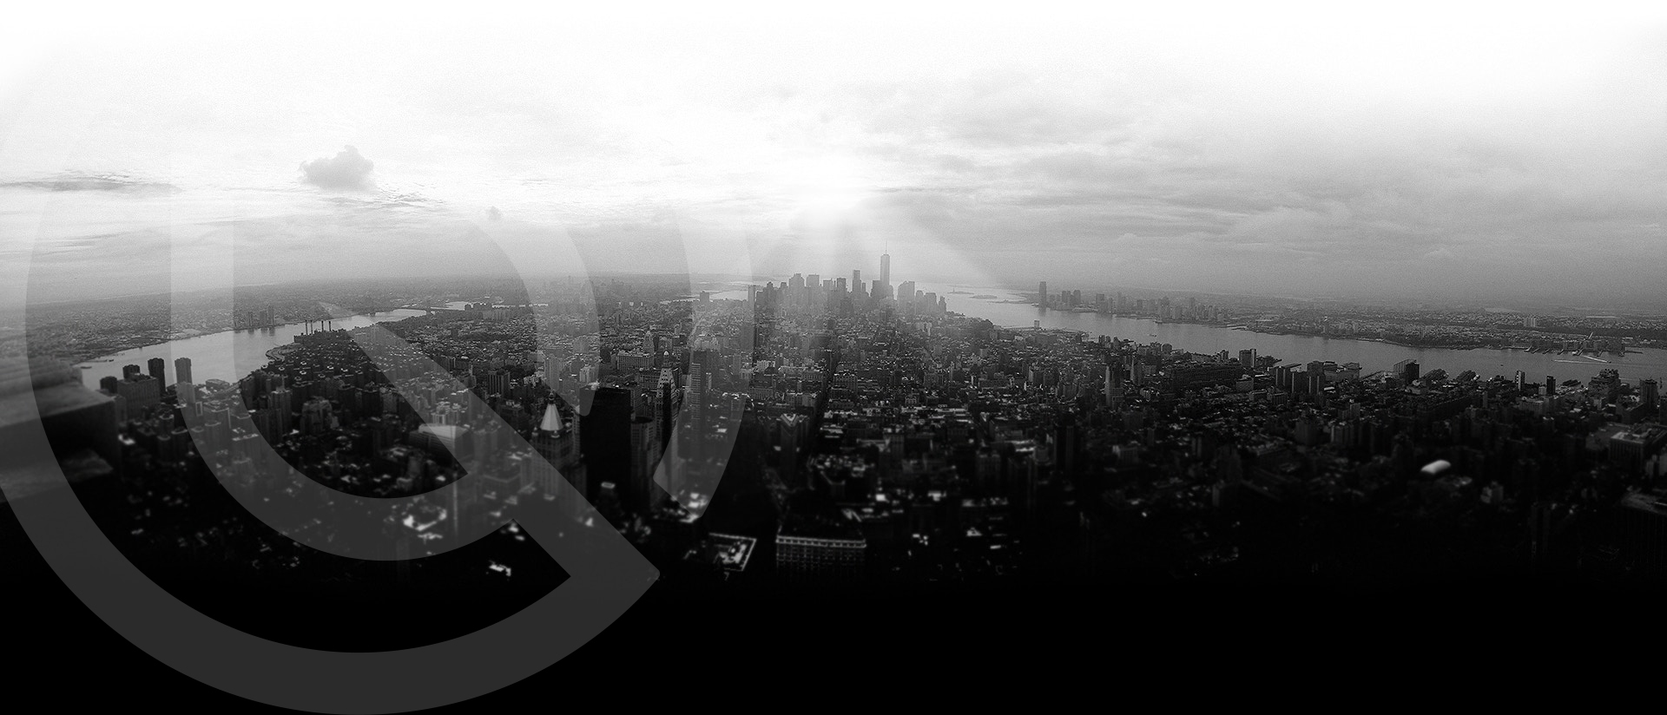
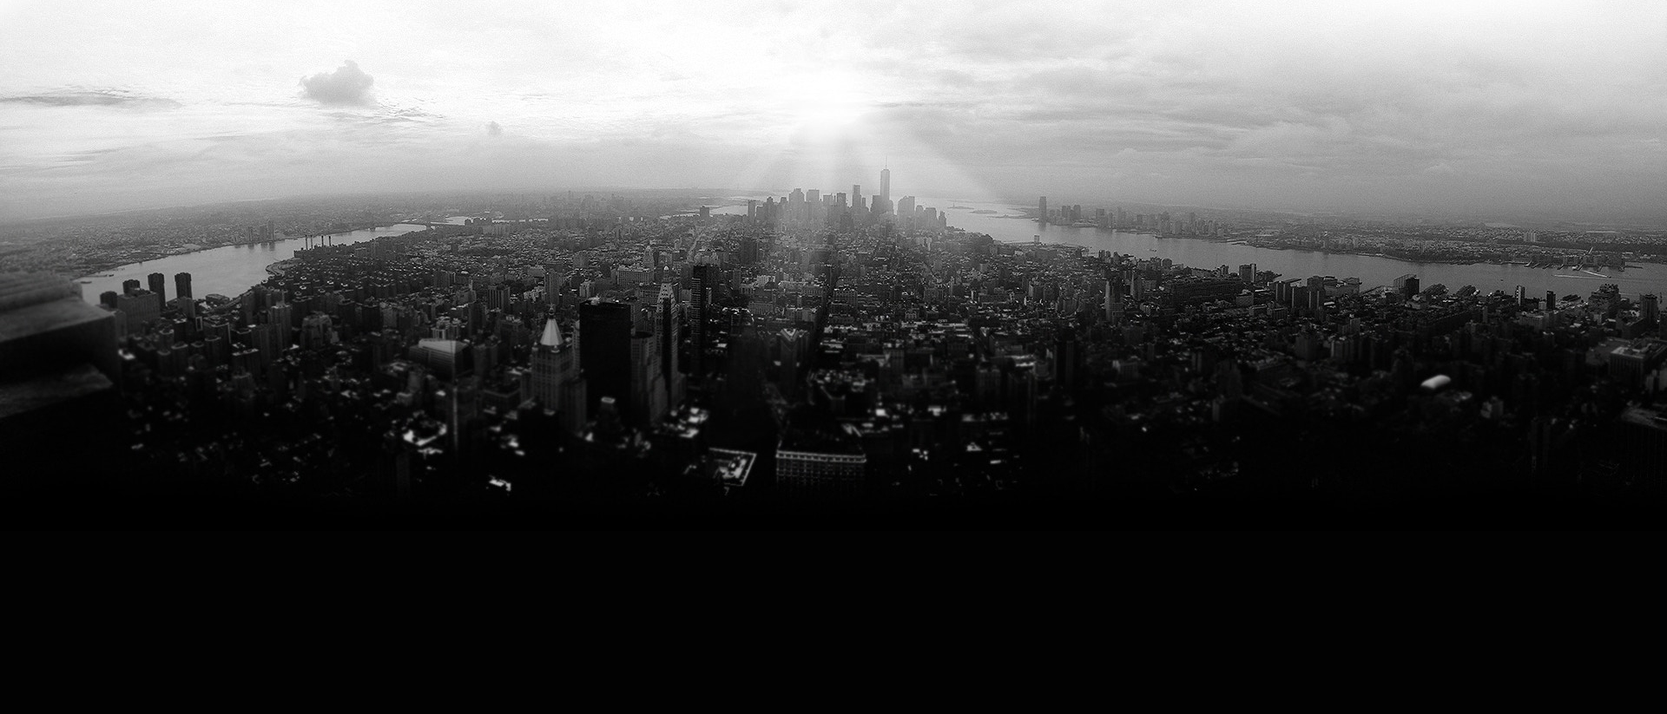
staging 2

diff --git a/index.html b/index.html
@@ -1,14 +1,14 @@
-<!DOCTYPE HTML><html lang="fr" class="no-js" xmlns="http://www.w3.org/1999/xhtml" prefix="og: http://opengraphprotocol.org/schema/
-			fb: https://www.facebook.com/2008/fbml"><!-- The site's metadata tags, importing css styles,... --><head><meta charset="UTF-8"><meta http-equiv="X-UA-Compatible" content="IE=edge"><meta name="viewport" content="width=device-width,initial-scale=1"><meta name="generator" content="Jekyll v3.6.2"><meta name="author" content="Digimix"><title>Gotham Green Partners</title><meta name="description" content="Jekicker is a Jekyll based advanced boilerplace where you find best practices to build a production ready static website. These best practicies include : use of sass, use of node modules instead of copying used librairies content manually, minification, uglification, separating application's code from vendor's code, reduing the number of served files, use of gulp tasks,.. (TODO)
+<!doctype html><html lang="en" class="no-js" xmlns="http://www.w3.org/1999/xhtml" prefix="og: http://opengraphprotocol.org/schema/
+			fb: https://www.facebook.com/2008/fbml"><!-- The site's metadata tags, importing css styles,... --><head><meta charset="UTF-8"><meta http-equiv="X-UA-Compatible" content="IE=edge"><meta name="viewport" content="width=device-width,initial-scale=1"><meta name="generator" content="Jekyll v3.6.2"><meta name="author" content="Digimix"><title>Gotham Green Partners</title><meta name="description" content="Gotham Green Partners is a New York-based private equity firm focused on deploying capital into cannabis and cannabis-related enterprises on a global scale.  The firm manages a diversified portfolio of investments and is actively investing across the cannabis value chain.
 "><meta name="keywords" lang="fr" content="jekyll, static website, generator, sass, yarn, node modules, gulp tasks, production ready, github, open source, advanced boilerplate, jekicker, jekyll starter kit, blogs, posts, pages
-"><!-- Favivons --><link rel="icon" sizes="32x32" href="https://jekicker.github.io/assets/favicon-32-bc62d0cd07323c266bfbca1cc95a0ca03973fd3e6522d06294a6e9df83954e2a.png" type="image/png"><link rel="icon" sizes="64x64" href="https://jekicker.github.io/assets/favicon-64-9d66417fb9b3668583b209aa5a75d11df5557b6af13ef44f064dee98d3a49535.png" type="image/png"><link rel="icon" sizes="96x96" href="https://jekicker.github.io/assets/favicon-96-c6ccfcf2f5f2e60fbb4b93f6860c1468695228fcddbb1ae8016e9e589426c4cb.png" type="image/png"><link rel="icon" sizes="144x144" href="https://jekicker.github.io/assets/favicon-144-2614b9b4b8596841013e8f3d2055a2967b4e4ddd2a564bd0cde3a65cdd9ca45b.png" type="image/png"><link rel="icon" sizes="196x196" href="https://jekicker.github.io/assets/favicon-196-df53507a2d8c392d9ba54321531b299d6d76e3c3b15780232846033aef622b9b.png" type="image/png"><link rel="apple-touch-icon" sizes="192x192" href="https://jekicker.github.io/assets/apple-icon-a440333e0539d639ac996fde6be3b5aee51595b38a86648a5d598d9f8c7d82c5.png"><link rel="apple-touch-icon" sizes="60x60" href="https://jekicker.github.io/assets/apple-icon-60x60-eccb52b0418bf96dd57b47e46062b335916c1880315a50cda7d206af932c2d70.png"><link rel="apple-touch-icon" sizes="76x76" href="https://jekicker.github.io/assets/apple-icon-76x76-22c222b01d43a41667f450904b7676eb022f4825049c913a432404e9609f69a2.png"><link rel="apple-touch-icon" sizes="114x114" href="https://jekicker.github.io/assets/apple-icon-114x114-dd7ff8a455fa17765ff2c5502e07db2a01ce1c1953152b3729f3bca542bb0047.png"><link rel="apple-touch-icon" sizes="120x120" href="https://jekicker.github.io/assets/apple-icon-120x120-6ca18d2cad239f84430a43ad5544ef676a8a8451bbf76d03209fbf918bf6da70.png"><link rel="apple-touch-icon" sizes="144x144" href="https://jekicker.github.io/assets/apple-icon-144x144-661a27d42e201797f9e71013129fceb848ca6aa14dd930df28be9a8f97fd66c4.png"><meta name="msapplication-TileImage" content="https://jekicker.github.io/assets/favicon-144-2614b9b4b8596841013e8f3d2055a2967b4e4ddd2a564bd0cde3a65cdd9ca45b.png"><meta name="msapplication-TileColor" content="#FFFFFF"><link rel="icon" href="https://jekicker.github.io/assets/favicon-243a3cfeac1081a588a5c195b68a08316ff105e2fa67274c0aa7c065fca1d2e8.png" type="image/png"><link rel="shortcut icon" href="https://jekicker.github.io/favicon.ico" type="image/x-icon"><!-- Chrome, Firefox OS and Opera --><meta name="theme-color" content="#ef473a"><!-- Windows Phone --><meta name="msapplication-navbutton-color" content="#ef473a"><!-- iOS Safari --><meta name="apple-mobile-web-app-status-bar-style" content="#ef473a"><!-- Twitter summary card metadata --><meta property="twitter:card" content="summary"><meta property="twitter:site" content="@"><meta property="twitter:title" content="Gotham Green Partners"><meta property="twitter:description" content="Jekicker is a Jekyll based advanced boilerplace where you find best practices to build a production ready static website. These best practicies include : use of sass, use of node modules instead of copying used librairies content manually, minification, uglification, separating application's code from vendor's code, reduing the number of served files, use of gulp tasks,.. (TODO)
-"><meta property="twitter:image" content="TODO"><meta property="twitter:url" content="https://jekicker.github.io"><!-- Facebook, Pinterest, Google Plus and others make use of open graph metadata --><meta property="og:url" content="https://jekicker.github.io"><meta property="og:site_name" content="TODO Jekicker"><meta property="og:type" content="website"><meta property="og:title" content="Gotham Green Partners"><meta property="og:description" content="Jekicker is a Jekyll based advanced boilerplace where you find best practices to build a production ready static website. These best practicies include : use of sass, use of node modules instead of copying used librairies content manually, minification, uglification, separating application's code from vendor's code, reduing the number of served files, use of gulp tasks,.. (TODO)
+"><!-- Favivons --><link rel="icon" sizes="32x32" href="https://jekicker.github.io/assets/favicon-32-bc62d0cd07323c266bfbca1cc95a0ca03973fd3e6522d06294a6e9df83954e2a.png" type="image/png"><link rel="icon" sizes="64x64" href="https://jekicker.github.io/assets/favicon-64-9d66417fb9b3668583b209aa5a75d11df5557b6af13ef44f064dee98d3a49535.png" type="image/png"><link rel="icon" sizes="96x96" href="https://jekicker.github.io/assets/favicon-96-c6ccfcf2f5f2e60fbb4b93f6860c1468695228fcddbb1ae8016e9e589426c4cb.png" type="image/png"><link rel="icon" sizes="144x144" href="https://jekicker.github.io/assets/favicon-144-2614b9b4b8596841013e8f3d2055a2967b4e4ddd2a564bd0cde3a65cdd9ca45b.png" type="image/png"><link rel="icon" sizes="196x196" href="https://jekicker.github.io/assets/favicon-196-df53507a2d8c392d9ba54321531b299d6d76e3c3b15780232846033aef622b9b.png" type="image/png"><link rel="apple-touch-icon" sizes="192x192" href="https://jekicker.github.io/assets/apple-icon-a440333e0539d639ac996fde6be3b5aee51595b38a86648a5d598d9f8c7d82c5.png"><link rel="apple-touch-icon" sizes="60x60" href="https://jekicker.github.io/assets/apple-icon-60x60-eccb52b0418bf96dd57b47e46062b335916c1880315a50cda7d206af932c2d70.png"><link rel="apple-touch-icon" sizes="76x76" href="https://jekicker.github.io/assets/apple-icon-76x76-22c222b01d43a41667f450904b7676eb022f4825049c913a432404e9609f69a2.png"><link rel="apple-touch-icon" sizes="114x114" href="https://jekicker.github.io/assets/apple-icon-114x114-dd7ff8a455fa17765ff2c5502e07db2a01ce1c1953152b3729f3bca542bb0047.png"><link rel="apple-touch-icon" sizes="120x120" href="https://jekicker.github.io/assets/apple-icon-120x120-6ca18d2cad239f84430a43ad5544ef676a8a8451bbf76d03209fbf918bf6da70.png"><link rel="apple-touch-icon" sizes="144x144" href="https://jekicker.github.io/assets/apple-icon-144x144-661a27d42e201797f9e71013129fceb848ca6aa14dd930df28be9a8f97fd66c4.png"><meta name="msapplication-TileImage" content="https://jekicker.github.io/assets/favicon-144-2614b9b4b8596841013e8f3d2055a2967b4e4ddd2a564bd0cde3a65cdd9ca45b.png"><meta name="msapplication-TileColor" content="#FFFFFF"><link rel="icon" href="https://jekicker.github.io/assets/favicon-243a3cfeac1081a588a5c195b68a08316ff105e2fa67274c0aa7c065fca1d2e8.png" type="image/png"><link rel="shortcut icon" href="https://jekicker.github.io/favicon.ico" type="image/x-icon"><!-- Chrome, Firefox OS and Opera --><meta name="theme-color" content="#4d8826"><!-- Windows Phone --><meta name="msapplication-navbutton-color" content="#4d8826"><!-- iOS Safari --><meta name="apple-mobile-web-app-status-bar-style" content="#4d8826"><!-- Twitter summary card metadata --><meta property="twitter:card" content="summary"><meta property="twitter:site" content="@"><meta property="twitter:title" content="Gotham Green Partners"><meta property="twitter:description" content="Gotham Green Partners is a New York-based private equity firm focused on deploying capital into cannabis and cannabis-related enterprises on a global scale.  The firm manages a diversified portfolio of investments and is actively investing across the cannabis value chain.
+"><meta property="twitter:image" content="TODO"><meta property="twitter:url" content="https://jekicker.github.io"><!-- Facebook, Pinterest, Google Plus and others make use of open graph metadata --><meta property="og:url" content="https://jekicker.github.io"><meta property="og:site_name" content="Gotham Green Partners"><meta property="og:type" content="website"><meta property="og:title" content="Gotham Green Partners"><meta property="og:description" content="Gotham Green Partners is a New York-based private equity firm focused on deploying capital into cannabis and cannabis-related enterprises on a global scale.  The firm manages a diversified portfolio of investments and is actively investing across the cannabis value chain.
 "><meta property="og:image" content="TODO"><meta property="og:image:url" content="TODO"><meta property="og:image:secure_url" content="TODO"><meta property="og:image:type" content="image/png"><meta property="fb:app_id" content="todo-your-facebook-app-id"><!-- Some web site information for crawlers --><!-- specify logo : https://developers.google.com/search/docs/data-types/logo --><script type="application/ld+json">{
         "@context": "http://schema.org",
         "@type": "Organization",
         "url": "https://jekicker.github.io",
         "logo": "TODO",
-        "name": "Jekicker",
+        "name": "Gotham Green Partners",
         "sameAs": [
             "https://www.facebook.com/todo-your-facebook-page/",
             "https://twitter.com/todo-your-twitter-page",
@@ -16,20 +16,10 @@
             "https://www.youtube.com/todo-your-youtube-channel",
             ""
         ]
-    }</script><!-- Google + link --><link href="https://plus.google.com/todo-the-publisher-google-plus-page" rel="publisher"><!-- Google search propriety validation --><meta name="google-site-verification" content="todo-your-google-site-verification-code"><!-- Fonts: TODO --><!-- CSS Libs --><link type="text/css" rel="stylesheet" href="/assets/vendor-1f4edc2b7069dfbe72faec62c6157876db6cc8ebaafe78c5d5c15ffd5a719dc3-26578329d1.css"><link type="text/css" rel="stylesheet" href="/assets/application-0836a4a85cafbf2e2af06f2e2661a5a674792bde68e64d62fc13577e9d4bfeec-f29c1b4d51.css"><!-- HTML5 Shim and Respond.js IE8 support of HTML5 elements and media queries --><!-- WARNING: Respond.js doesn't work if you view the page via file:// --><!--[if lt IE 9]>
+    }</script><!-- Google + link --><link href="https://plus.google.com/todo-the-publisher-google-plus-page" rel="publisher"><!-- Google search propriety validation --><meta name="google-site-verification" content="todo-your-google-site-verification-code"><!-- Fonts: TODO --><!-- CSS Libs --><link type="text/css" rel="stylesheet" href="/assets/vendor-1f4edc2b7069dfbe72faec62c6157876db6cc8ebaafe78c5d5c15ffd5a719dc3-26578329d1.css"><link type="text/css" rel="stylesheet" href="/assets/application-a5ab3c587a6278552f3c0cad047f681bb534eb545d79a514f85d4c1bbf1155f8-9847055508.css"><!-- HTML5 Shim and Respond.js IE8 support of HTML5 elements and media queries --><!-- WARNING: Respond.js doesn't work if you view the page via file:// --><!--[if lt IE 9]>
         <script src="https://oss.maxcdn.com/libs/html5shiv/3.7.0/html5shiv.js"></script>
         <script src="https://oss.maxcdn.com/libs/respond.js/1.4.2/respond.min.js"></script>
-    <![endif]--></head><body><div class="above-the-fold d-flex align-items-start flex-column"><main class="mb-auto p-2 align-self-stretch d-flex position-relative" style="flex-grow: 1"><!-- The website's header --> <img class="align-self-end hero-brand-icon" src="/assets/images/gotham-logo-icon-white.svg" alt="Gotham Green Partners"><h1 class="align-self-center nav-hero-brand col-12 col-sm-6 col-lg-5 mx-auto"><img class="w-100 h-auto" src="/assets/images/gotham-green-logo.svg" alt="Gotham Green Partners"></h1><!-- The page's content --><!--
-<div class="w-100 d-flex" style="height:inherit;background:url('/assets/images/gotham-nyc-background.jpg');background-size: cover;">
-    <img class="mx-auto col-sm-6 h-auto" src="/assets/images/gotham-green-logo.svg" alt="Gotham Green Partners">
-</div>
---><!--
-<div class="d-flex align-self-stretch">
-    <img class="col-sm-6 h-auto" src="/assets/images/gotham-green-logo.svg" alt="Gotham Green Partners">
-
-</div>
-<img class="" style="height:inherit;object-fit:cover;" src="/assets/images/gotham-nyc-background.jpg" alt="Gotham Green Partners">
---></main><footer class="todo-jekicker-footer text-center footer w-100"><div class="row justify-content-center contact-container no-gutters text-left px-3 px-md-0"><div class="col-md-4 push-md-6 email-label py-3"><p class="label-title email-label-title">Email</p><a href="mailto:info@gothamgreenpartners.com">info@gothamgreenpartners.com</a></div><div class="d-sm-up separator-label"></div><div class="col-md-4 pull-md-6 office-label py-3"><p class="label-title office-label-title">Office</p>489 5th Ave, Suite 29A, New York, New NY 10017</div></div><div class="row copyright-container no-gutters"><div class="col-md-12 copyright-label py-4"><p class="m-0">&copy; 2018 Gotham Green Partners. All Rights Reserved.</p></div></div></footer></div><!-- Include google analytics when running into production. --><!-- For this to run under Github set "safe:true" within _config.yml --><!-- Google Analytics (https://www.google.com/analytics) --><script>(function(i,s,o,g,r,a,m){i['GoogleAnalyticsObject']=r;i[r]=i[r]||function(){
+    <![endif]--></head><body class="gotham"><!-- The website's header --><div class="above-the-fold d-flex align-items-start flex-column" role="document"><main class="mb-auto p-2 align-self-stretch d-flex position-relative" style="flex-grow: 1"><!-- The page's content --> <img class="align-self-end hero-brand-icon" src="/assets/images/gotham-logo-icon-white.svg" alt="Gotham Green Partners"><h1 class="align-self-center nav-hero-brand col-12 col-sm-6 col-lg-5 mx-auto"><img class="w-100 h-auto" src="/assets/images/gotham-green-logo.svg" alt="Gotham Green Partners"></h1></main><footer class="todo-jekicker-footer text-center footer w-100"><div class="row justify-content-center contact-container no-gutters text-left px-3 px-md-0"><div class="col-md-4 push-md-6 email-label py-3"><p class="label-title email-label-title">Email</p><a href="mailto:info@gothamgreenpartners.com">info@gothamgreenpartners.com</a></div><div class="d-sm-up separator-label"></div><div class="col-md-4 pull-md-6 office-label py-3"><p class="label-title office-label-title">Office</p>489 5th Ave, Suite 29A, New York, New NY 10017</div></div><div class="row copyright-container no-gutters"><div class="col-md-12 copyright-label py-4"><p class="m-0">&copy; 2018 Gotham Green Partners. All Rights Reserved.</p></div></div></footer></div><!-- Include google analytics when running into production. --><!-- For this to run under Github set "safe:true" within _config.yml --><!-- Google Analytics (https://www.google.com/analytics) --><script>(function(i,s,o,g,r,a,m){i['GoogleAnalyticsObject']=r;i[r]=i[r]||function(){
     (i[r].q=i[r].q||[]).push(arguments)},i[r].l=1*new Date();a=s.createElement(o),
     m=s.getElementsByTagName(o)[0];a.async=1;a.src=g;m.parentNode.insertBefore(a,m)
     })(window,document,'script','https://www.google-analytics.com/analytics.js','ga');

diff --git a/jekicker/update/2017/11/19/welcome-to-jekicker/index.html b/jekicker/update/2017/11/19/welcome-to-jekicker/index.html
@@ -1,14 +1,14 @@
-<!DOCTYPE HTML><html lang="fr" class="no-js" xmlns="http://www.w3.org/1999/xhtml" prefix="og: http://opengraphprotocol.org/schema/
-			fb: https://www.facebook.com/2008/fbml"><!-- The site's metadata tags, importing css styles,... --><head><meta charset="UTF-8"><meta http-equiv="X-UA-Compatible" content="IE=edge"><meta name="viewport" content="width=device-width,initial-scale=1"><meta name="generator" content="Jekyll v3.6.2"><meta name="author" content="Digimix"><title>Welcome to Jekicker!</title><meta name="description" content="Jekicker is a Jekyll based advanced boilerplace where you find best practices to build a production ready static website. These best practicies include : use of sass, use of node modules instead of copying needed librairies' content manually, minification, uglification, separating application's code from vendor's code, reduing the number of served files, use of gulp tasks,... # TODO
+<!doctype html><html lang="en" class="no-js" xmlns="http://www.w3.org/1999/xhtml" prefix="og: http://opengraphprotocol.org/schema/
+			fb: https://www.facebook.com/2008/fbml"><!-- The site's metadata tags, importing css styles,... --><head><meta charset="UTF-8"><meta http-equiv="X-UA-Compatible" content="IE=edge"><meta name="viewport" content="width=device-width,initial-scale=1"><meta name="generator" content="Jekyll v3.6.2"><meta name="author" content="Digimix"><title>Welcome to Jekicker!</title><meta name="description" content="Gotham Green Partners is a New York-based private equity firm focused on deploying capital into cannabis and cannabis-related enterprises on a global scale.  The firm manages a diversified portfolio of investments and is actively investing across the cannabis value chain. # TODO
 "><meta name="keywords" lang="fr" content="jekyll, static website, generator, sass, yarn, node modules, gulp tasks, production ready, github, open source, advanced boilerplate, jekicker, jekyll starter kit, blogs, posts, pages
-"><!-- Favivons --><link rel="icon" sizes="32x32" href="https://jekicker.github.io/assets/favicon-32-bc62d0cd07323c266bfbca1cc95a0ca03973fd3e6522d06294a6e9df83954e2a.png" type="image/png"><link rel="icon" sizes="64x64" href="https://jekicker.github.io/assets/favicon-64-9d66417fb9b3668583b209aa5a75d11df5557b6af13ef44f064dee98d3a49535.png" type="image/png"><link rel="icon" sizes="96x96" href="https://jekicker.github.io/assets/favicon-96-c6ccfcf2f5f2e60fbb4b93f6860c1468695228fcddbb1ae8016e9e589426c4cb.png" type="image/png"><link rel="icon" sizes="144x144" href="https://jekicker.github.io/assets/favicon-144-2614b9b4b8596841013e8f3d2055a2967b4e4ddd2a564bd0cde3a65cdd9ca45b.png" type="image/png"><link rel="icon" sizes="196x196" href="https://jekicker.github.io/assets/favicon-196-df53507a2d8c392d9ba54321531b299d6d76e3c3b15780232846033aef622b9b.png" type="image/png"><link rel="apple-touch-icon" sizes="192x192" href="https://jekicker.github.io/assets/apple-icon-a440333e0539d639ac996fde6be3b5aee51595b38a86648a5d598d9f8c7d82c5.png"><link rel="apple-touch-icon" sizes="60x60" href="https://jekicker.github.io/assets/apple-icon-60x60-eccb52b0418bf96dd57b47e46062b335916c1880315a50cda7d206af932c2d70.png"><link rel="apple-touch-icon" sizes="76x76" href="https://jekicker.github.io/assets/apple-icon-76x76-22c222b01d43a41667f450904b7676eb022f4825049c913a432404e9609f69a2.png"><link rel="apple-touch-icon" sizes="114x114" href="https://jekicker.github.io/assets/apple-icon-114x114-dd7ff8a455fa17765ff2c5502e07db2a01ce1c1953152b3729f3bca542bb0047.png"><link rel="apple-touch-icon" sizes="120x120" href="https://jekicker.github.io/assets/apple-icon-120x120-6ca18d2cad239f84430a43ad5544ef676a8a8451bbf76d03209fbf918bf6da70.png"><link rel="apple-touch-icon" sizes="144x144" href="https://jekicker.github.io/assets/apple-icon-144x144-661a27d42e201797f9e71013129fceb848ca6aa14dd930df28be9a8f97fd66c4.png"><meta name="msapplication-TileImage" content="https://jekicker.github.io/assets/favicon-144-2614b9b4b8596841013e8f3d2055a2967b4e4ddd2a564bd0cde3a65cdd9ca45b.png"><meta name="msapplication-TileColor" content="#FFFFFF"><link rel="icon" href="https://jekicker.github.io/assets/favicon-243a3cfeac1081a588a5c195b68a08316ff105e2fa67274c0aa7c065fca1d2e8.png" type="image/png"><link rel="shortcut icon" href="https://jekicker.github.io/favicon.ico" type="image/x-icon"><!-- Chrome, Firefox OS and Opera --><meta name="theme-color" content="#ef473a"><!-- Windows Phone --><meta name="msapplication-navbutton-color" content="#ef473a"><!-- iOS Safari --><meta name="apple-mobile-web-app-status-bar-style" content="#ef473a"><!-- Twitter summary card metadata --><meta property="twitter:card" content="summary"><meta property="twitter:site" content="@"><meta property="twitter:title" content="Gotham Green Partners"><meta property="twitter:description" content="Jekicker is a Jekyll based advanced boilerplace where you find best practices to build a production ready static website. These best practicies include : use of sass, use of node modules instead of copying needed librairies' content manually, minification, uglification, separating application's code from vendor's code, reduing the number of served files, use of gulp tasks,... # TODO
-"><meta property="twitter:image" content="TODO"><meta property="twitter:url" content="https://jekicker.github.io"><!-- Facebook, Pinterest, Google Plus and others make use of open graph metadata --><meta property="og:url" content="https://jekicker.github.io"><meta property="og:site_name" content="TODO Jekicker"><meta property="og:type" content="website"><meta property="og:title" content="Gotham Green Partners"><meta property="og:description" content="Jekicker is a Jekyll based advanced boilerplace where you find best practices to build a production ready static website. These best practicies include : use of sass, use of node modules instead of copying needed librairies' content manually, minification, uglification, separating application's code from vendor's code, reduing the number of served files, use of gulp tasks,... # TODO
+"><!-- Favivons --><link rel="icon" sizes="32x32" href="https://jekicker.github.io/assets/favicon-32-bc62d0cd07323c266bfbca1cc95a0ca03973fd3e6522d06294a6e9df83954e2a.png" type="image/png"><link rel="icon" sizes="64x64" href="https://jekicker.github.io/assets/favicon-64-9d66417fb9b3668583b209aa5a75d11df5557b6af13ef44f064dee98d3a49535.png" type="image/png"><link rel="icon" sizes="96x96" href="https://jekicker.github.io/assets/favicon-96-c6ccfcf2f5f2e60fbb4b93f6860c1468695228fcddbb1ae8016e9e589426c4cb.png" type="image/png"><link rel="icon" sizes="144x144" href="https://jekicker.github.io/assets/favicon-144-2614b9b4b8596841013e8f3d2055a2967b4e4ddd2a564bd0cde3a65cdd9ca45b.png" type="image/png"><link rel="icon" sizes="196x196" href="https://jekicker.github.io/assets/favicon-196-df53507a2d8c392d9ba54321531b299d6d76e3c3b15780232846033aef622b9b.png" type="image/png"><link rel="apple-touch-icon" sizes="192x192" href="https://jekicker.github.io/assets/apple-icon-a440333e0539d639ac996fde6be3b5aee51595b38a86648a5d598d9f8c7d82c5.png"><link rel="apple-touch-icon" sizes="60x60" href="https://jekicker.github.io/assets/apple-icon-60x60-eccb52b0418bf96dd57b47e46062b335916c1880315a50cda7d206af932c2d70.png"><link rel="apple-touch-icon" sizes="76x76" href="https://jekicker.github.io/assets/apple-icon-76x76-22c222b01d43a41667f450904b7676eb022f4825049c913a432404e9609f69a2.png"><link rel="apple-touch-icon" sizes="114x114" href="https://jekicker.github.io/assets/apple-icon-114x114-dd7ff8a455fa17765ff2c5502e07db2a01ce1c1953152b3729f3bca542bb0047.png"><link rel="apple-touch-icon" sizes="120x120" href="https://jekicker.github.io/assets/apple-icon-120x120-6ca18d2cad239f84430a43ad5544ef676a8a8451bbf76d03209fbf918bf6da70.png"><link rel="apple-touch-icon" sizes="144x144" href="https://jekicker.github.io/assets/apple-icon-144x144-661a27d42e201797f9e71013129fceb848ca6aa14dd930df28be9a8f97fd66c4.png"><meta name="msapplication-TileImage" content="https://jekicker.github.io/assets/favicon-144-2614b9b4b8596841013e8f3d2055a2967b4e4ddd2a564bd0cde3a65cdd9ca45b.png"><meta name="msapplication-TileColor" content="#FFFFFF"><link rel="icon" href="https://jekicker.github.io/assets/favicon-243a3cfeac1081a588a5c195b68a08316ff105e2fa67274c0aa7c065fca1d2e8.png" type="image/png"><link rel="shortcut icon" href="https://jekicker.github.io/favicon.ico" type="image/x-icon"><!-- Chrome, Firefox OS and Opera --><meta name="theme-color" content="#4d8826"><!-- Windows Phone --><meta name="msapplication-navbutton-color" content="#4d8826"><!-- iOS Safari --><meta name="apple-mobile-web-app-status-bar-style" content="#4d8826"><!-- Twitter summary card metadata --><meta property="twitter:card" content="summary"><meta property="twitter:site" content="@"><meta property="twitter:title" content="Gotham Green Partners"><meta property="twitter:description" content="Gotham Green Partners is a New York-based private equity firm focused on deploying capital into cannabis and cannabis-related enterprises on a global scale.  The firm manages a diversified portfolio of investments and is actively investing across the cannabis value chain. # TODO
+"><meta property="twitter:image" content="TODO"><meta property="twitter:url" content="https://jekicker.github.io"><!-- Facebook, Pinterest, Google Plus and others make use of open graph metadata --><meta property="og:url" content="https://jekicker.github.io"><meta property="og:site_name" content="Gotham Green Partners"><meta property="og:type" content="website"><meta property="og:title" content="Gotham Green Partners"><meta property="og:description" content="Gotham Green Partners is a New York-based private equity firm focused on deploying capital into cannabis and cannabis-related enterprises on a global scale.  The firm manages a diversified portfolio of investments and is actively investing across the cannabis value chain. # TODO
 "><meta property="og:image" content="TODO"><meta property="og:image:url" content="TODO"><meta property="og:image:secure_url" content="TODO"><meta property="og:image:type" content="image/png"><meta property="fb:app_id" content="todo-your-facebook-app-id"><!-- Some web site information for crawlers --><!-- specify logo : https://developers.google.com/search/docs/data-types/logo --><script type="application/ld+json">{
         "@context": "http://schema.org",
         "@type": "Organization",
         "url": "https://jekicker.github.io",
         "logo": "TODO",
-        "name": "Jekicker",
+        "name": "Gotham Green Partners",
         "sameAs": [
             "https://www.facebook.com/todo-your-facebook-page/",
             "https://twitter.com/todo-your-twitter-page",
@@ -16,10 +16,10 @@
             "https://www.youtube.com/todo-your-youtube-channel",
             ""
         ]
-    }</script><!-- Google + link --><link href="https://plus.google.com/todo-the-publisher-google-plus-page" rel="publisher"><!-- Google search propriety validation --><meta name="google-site-verification" content="todo-your-google-site-verification-code"><!-- Fonts: TODO --><!-- CSS Libs --><link type="text/css" rel="stylesheet" href="/assets/vendor-1f4edc2b7069dfbe72faec62c6157876db6cc8ebaafe78c5d5c15ffd5a719dc3-26578329d1.css"><link type="text/css" rel="stylesheet" href="/assets/application-0836a4a85cafbf2e2af06f2e2661a5a674792bde68e64d62fc13577e9d4bfeec-f29c1b4d51.css"><!-- HTML5 Shim and Respond.js IE8 support of HTML5 elements and media queries --><!-- WARNING: Respond.js doesn't work if you view the page via file:// --><!--[if lt IE 9]>
+    }</script><!-- Google + link --><link href="https://plus.google.com/todo-the-publisher-google-plus-page" rel="publisher"><!-- Google search propriety validation --><meta name="google-site-verification" content="todo-your-google-site-verification-code"><!-- Fonts: TODO --><!-- CSS Libs --><link type="text/css" rel="stylesheet" href="/assets/vendor-1f4edc2b7069dfbe72faec62c6157876db6cc8ebaafe78c5d5c15ffd5a719dc3-26578329d1.css"><link type="text/css" rel="stylesheet" href="/assets/application-a5ab3c587a6278552f3c0cad047f681bb534eb545d79a514f85d4c1bbf1155f8-9847055508.css"><!-- HTML5 Shim and Respond.js IE8 support of HTML5 elements and media queries --><!-- WARNING: Respond.js doesn't work if you view the page via file:// --><!--[if lt IE 9]>
         <script src="https://oss.maxcdn.com/libs/html5shiv/3.7.0/html5shiv.js"></script>
         <script src="https://oss.maxcdn.com/libs/respond.js/1.4.2/respond.min.js"></script>
-    <![endif]--></head><body><div class="above-the-fold d-flex align-items-start flex-column"><main class="mb-auto p-2 align-self-stretch d-flex position-relative" style="flex-grow: 1"><!-- The website's header --> <img class="align-self-end hero-brand-icon" src="/assets/images/gotham-logo-icon-white.svg" alt="Gotham Green Partners"><h1 class="align-self-center nav-hero-brand col-12 col-sm-6 col-lg-5 mx-auto"><img class="w-100 h-auto" src="/assets/images/gotham-green-logo.svg" alt="Gotham Green Partners"></h1><!-- The page's content --><p>Welcome to Jekicker test post :)</p></main><footer class="todo-jekicker-footer text-center footer w-100"><div class="row justify-content-center contact-container no-gutters text-left px-3 px-md-0"><div class="col-md-4 push-md-6 email-label py-3"><p class="label-title email-label-title">Email</p><a href="mailto:info@gothamgreenpartners.com">info@gothamgreenpartners.com</a></div><div class="d-sm-up separator-label"></div><div class="col-md-4 pull-md-6 office-label py-3"><p class="label-title office-label-title">Office</p>489 5th Ave, Suite 29A, New York, New NY 10017</div></div><div class="row copyright-container no-gutters"><div class="col-md-12 copyright-label py-4"><p class="m-0">&copy; 2018 Gotham Green Partners. All Rights Reserved.</p></div></div></footer></div><!-- Include google analytics when running into production. --><!-- For this to run under Github set "safe:true" within _config.yml --><!-- Google Analytics (https://www.google.com/analytics) --><script>(function(i,s,o,g,r,a,m){i['GoogleAnalyticsObject']=r;i[r]=i[r]||function(){
+    <![endif]--></head><body class="gotham"><!-- The website's header --><div class="above-the-fold d-flex align-items-start flex-column" role="document"><main class="mb-auto p-2 align-self-stretch d-flex position-relative" style="flex-grow: 1"><!-- The page's content --><p>Welcome to Jekicker test post :)</p></main><footer class="todo-jekicker-footer text-center footer w-100"><div class="row justify-content-center contact-container no-gutters text-left px-3 px-md-0"><div class="col-md-4 push-md-6 email-label py-3"><p class="label-title email-label-title">Email</p><a href="mailto:info@gothamgreenpartners.com">info@gothamgreenpartners.com</a></div><div class="d-sm-up separator-label"></div><div class="col-md-4 pull-md-6 office-label py-3"><p class="label-title office-label-title">Office</p>489 5th Ave, Suite 29A, New York, New NY 10017</div></div><div class="row copyright-container no-gutters"><div class="col-md-12 copyright-label py-4"><p class="m-0">&copy; 2018 Gotham Green Partners. All Rights Reserved.</p></div></div></footer></div><!-- Include google analytics when running into production. --><!-- For this to run under Github set "safe:true" within _config.yml --><!-- Google Analytics (https://www.google.com/analytics) --><script>(function(i,s,o,g,r,a,m){i['GoogleAnalyticsObject']=r;i[r]=i[r]||function(){
     (i[r].q=i[r].q||[]).push(arguments)},i[r].l=1*new Date();a=s.createElement(o),
     m=s.getElementsByTagName(o)[0];a.async=1;a.src=g;m.parentNode.insertBefore(a,m)
     })(window,document,'script','https://www.google-analytics.com/analytics.js','ga');

diff --git a/404.html b/404.html
@@ -1,14 +1,14 @@
 <!doctype html><!DOCTYPE HTML><html lang="fr" class="no-js" xmlns="http://www.w3.org/1999/xhtml" prefix="og: http://opengraphprotocol.org/schema/
-			fb: https://www.facebook.com/2008/fbml"><head><meta charset="UTF-8"><meta http-equiv="X-UA-Compatible" content="IE=edge"><meta name="viewport" content="width=device-width,initial-scale=1"><meta name="generator" content="Jekyll v3.6.2"><meta name="author" content="Digimix"><title>Gotham Green Partners</title><meta name="description" content="Jekicker is a Jekyll based advanced boilerplace where you find best practices to build a production ready static website. These best practicies include : use of sass, use of node modules instead of copying needed librairies' content manually, minification, uglification, separating application's code from vendor's code, reduing the number of served files, use of gulp tasks,... # TODO
+			fb: https://www.facebook.com/2008/fbml"><head><meta charset="UTF-8"><meta http-equiv="X-UA-Compatible" content="IE=edge"><meta name="viewport" content="width=device-width,initial-scale=1"><meta name="generator" content="Jekyll v3.6.2"><meta name="author" content="Digimix"><title>Gotham Green Partners</title><meta name="description" content="Gotham Green Partners is a New York-based private equity firm focused on deploying capital into cannabis and cannabis-related enterprises on a global scale.  The firm manages a diversified portfolio of investments and is actively investing across the cannabis value chain. # TODO
 "><meta name="keywords" lang="fr" content="jekyll, static website, generator, sass, yarn, node modules, gulp tasks, production ready, github, open source, advanced boilerplate, jekicker, jekyll starter kit, blogs, posts, pages
-"><!-- Favivons --><link rel="icon" sizes="32x32" href="https://jekicker.github.io/assets/favicon-32-bc62d0cd07323c266bfbca1cc95a0ca03973fd3e6522d06294a6e9df83954e2a.png" type="image/png"><link rel="icon" sizes="64x64" href="https://jekicker.github.io/assets/favicon-64-9d66417fb9b3668583b209aa5a75d11df5557b6af13ef44f064dee98d3a49535.png" type="image/png"><link rel="icon" sizes="96x96" href="https://jekicker.github.io/assets/favicon-96-c6ccfcf2f5f2e60fbb4b93f6860c1468695228fcddbb1ae8016e9e589426c4cb.png" type="image/png"><link rel="icon" sizes="144x144" href="https://jekicker.github.io/assets/favicon-144-2614b9b4b8596841013e8f3d2055a2967b4e4ddd2a564bd0cde3a65cdd9ca45b.png" type="image/png"><link rel="icon" sizes="196x196" href="https://jekicker.github.io/assets/favicon-196-df53507a2d8c392d9ba54321531b299d6d76e3c3b15780232846033aef622b9b.png" type="image/png"><link rel="apple-touch-icon" sizes="192x192" href="https://jekicker.github.io/assets/apple-icon-a440333e0539d639ac996fde6be3b5aee51595b38a86648a5d598d9f8c7d82c5.png"><link rel="apple-touch-icon" sizes="60x60" href="https://jekicker.github.io/assets/apple-icon-60x60-eccb52b0418bf96dd57b47e46062b335916c1880315a50cda7d206af932c2d70.png"><link rel="apple-touch-icon" sizes="76x76" href="https://jekicker.github.io/assets/apple-icon-76x76-22c222b01d43a41667f450904b7676eb022f4825049c913a432404e9609f69a2.png"><link rel="apple-touch-icon" sizes="114x114" href="https://jekicker.github.io/assets/apple-icon-114x114-dd7ff8a455fa17765ff2c5502e07db2a01ce1c1953152b3729f3bca542bb0047.png"><link rel="apple-touch-icon" sizes="120x120" href="https://jekicker.github.io/assets/apple-icon-120x120-6ca18d2cad239f84430a43ad5544ef676a8a8451bbf76d03209fbf918bf6da70.png"><link rel="apple-touch-icon" sizes="144x144" href="https://jekicker.github.io/assets/apple-icon-144x144-661a27d42e201797f9e71013129fceb848ca6aa14dd930df28be9a8f97fd66c4.png"><meta name="msapplication-TileImage" content="https://jekicker.github.io/assets/favicon-144-2614b9b4b8596841013e8f3d2055a2967b4e4ddd2a564bd0cde3a65cdd9ca45b.png"><meta name="msapplication-TileColor" content="#FFFFFF"><link rel="icon" href="https://jekicker.github.io/assets/favicon-243a3cfeac1081a588a5c195b68a08316ff105e2fa67274c0aa7c065fca1d2e8.png" type="image/png"><link rel="shortcut icon" href="https://jekicker.github.io/favicon.ico" type="image/x-icon"><!-- Chrome, Firefox OS and Opera --><meta name="theme-color" content="#ef473a"><!-- Windows Phone --><meta name="msapplication-navbutton-color" content="#ef473a"><!-- iOS Safari --><meta name="apple-mobile-web-app-status-bar-style" content="#ef473a"><!-- Twitter summary card metadata --><meta property="twitter:card" content="summary"><meta property="twitter:site" content="@"><meta property="twitter:title" content="Gotham Green Partners"><meta property="twitter:description" content="Jekicker is a Jekyll based advanced boilerplace where you find best practices to build a production ready static website. These best practicies include : use of sass, use of node modules instead of copying needed librairies' content manually, minification, uglification, separating application's code from vendor's code, reduing the number of served files, use of gulp tasks,... # TODO
-"><meta property="twitter:image" content="TODO"><meta property="twitter:url" content="https://jekicker.github.io"><!-- Facebook, Pinterest, Google Plus and others make use of open graph metadata --><meta property="og:url" content="https://jekicker.github.io"><meta property="og:site_name" content="TODO Jekicker"><meta property="og:type" content="website"><meta property="og:title" content="Gotham Green Partners"><meta property="og:description" content="Jekicker is a Jekyll based advanced boilerplace where you find best practices to build a production ready static website. These best practicies include : use of sass, use of node modules instead of copying needed librairies' content manually, minification, uglification, separating application's code from vendor's code, reduing the number of served files, use of gulp tasks,... # TODO
+"><!-- Favivons --><link rel="icon" sizes="32x32" href="https://jekicker.github.io/assets/favicon-32-bc62d0cd07323c266bfbca1cc95a0ca03973fd3e6522d06294a6e9df83954e2a.png" type="image/png"><link rel="icon" sizes="64x64" href="https://jekicker.github.io/assets/favicon-64-9d66417fb9b3668583b209aa5a75d11df5557b6af13ef44f064dee98d3a49535.png" type="image/png"><link rel="icon" sizes="96x96" href="https://jekicker.github.io/assets/favicon-96-c6ccfcf2f5f2e60fbb4b93f6860c1468695228fcddbb1ae8016e9e589426c4cb.png" type="image/png"><link rel="icon" sizes="144x144" href="https://jekicker.github.io/assets/favicon-144-2614b9b4b8596841013e8f3d2055a2967b4e4ddd2a564bd0cde3a65cdd9ca45b.png" type="image/png"><link rel="icon" sizes="196x196" href="https://jekicker.github.io/assets/favicon-196-df53507a2d8c392d9ba54321531b299d6d76e3c3b15780232846033aef622b9b.png" type="image/png"><link rel="apple-touch-icon" sizes="192x192" href="https://jekicker.github.io/assets/apple-icon-a440333e0539d639ac996fde6be3b5aee51595b38a86648a5d598d9f8c7d82c5.png"><link rel="apple-touch-icon" sizes="60x60" href="https://jekicker.github.io/assets/apple-icon-60x60-eccb52b0418bf96dd57b47e46062b335916c1880315a50cda7d206af932c2d70.png"><link rel="apple-touch-icon" sizes="76x76" href="https://jekicker.github.io/assets/apple-icon-76x76-22c222b01d43a41667f450904b7676eb022f4825049c913a432404e9609f69a2.png"><link rel="apple-touch-icon" sizes="114x114" href="https://jekicker.github.io/assets/apple-icon-114x114-dd7ff8a455fa17765ff2c5502e07db2a01ce1c1953152b3729f3bca542bb0047.png"><link rel="apple-touch-icon" sizes="120x120" href="https://jekicker.github.io/assets/apple-icon-120x120-6ca18d2cad239f84430a43ad5544ef676a8a8451bbf76d03209fbf918bf6da70.png"><link rel="apple-touch-icon" sizes="144x144" href="https://jekicker.github.io/assets/apple-icon-144x144-661a27d42e201797f9e71013129fceb848ca6aa14dd930df28be9a8f97fd66c4.png"><meta name="msapplication-TileImage" content="https://jekicker.github.io/assets/favicon-144-2614b9b4b8596841013e8f3d2055a2967b4e4ddd2a564bd0cde3a65cdd9ca45b.png"><meta name="msapplication-TileColor" content="#FFFFFF"><link rel="icon" href="https://jekicker.github.io/assets/favicon-243a3cfeac1081a588a5c195b68a08316ff105e2fa67274c0aa7c065fca1d2e8.png" type="image/png"><link rel="shortcut icon" href="https://jekicker.github.io/favicon.ico" type="image/x-icon"><!-- Chrome, Firefox OS and Opera --><meta name="theme-color" content="#4d8826"><!-- Windows Phone --><meta name="msapplication-navbutton-color" content="#4d8826"><!-- iOS Safari --><meta name="apple-mobile-web-app-status-bar-style" content="#4d8826"><!-- Twitter summary card metadata --><meta property="twitter:card" content="summary"><meta property="twitter:site" content="@"><meta property="twitter:title" content="Gotham Green Partners"><meta property="twitter:description" content="Gotham Green Partners is a New York-based private equity firm focused on deploying capital into cannabis and cannabis-related enterprises on a global scale.  The firm manages a diversified portfolio of investments and is actively investing across the cannabis value chain. # TODO
+"><meta property="twitter:image" content="TODO"><meta property="twitter:url" content="https://jekicker.github.io"><!-- Facebook, Pinterest, Google Plus and others make use of open graph metadata --><meta property="og:url" content="https://jekicker.github.io"><meta property="og:site_name" content="Gotham Green Partners"><meta property="og:type" content="website"><meta property="og:title" content="Gotham Green Partners"><meta property="og:description" content="Gotham Green Partners is a New York-based private equity firm focused on deploying capital into cannabis and cannabis-related enterprises on a global scale.  The firm manages a diversified portfolio of investments and is actively investing across the cannabis value chain. # TODO
 "><meta property="og:image" content="TODO"><meta property="og:image:url" content="TODO"><meta property="og:image:secure_url" content="TODO"><meta property="og:image:type" content="image/png"><meta property="fb:app_id" content="todo-your-facebook-app-id"><!-- Some web site information for crawlers --><!-- specify logo : https://developers.google.com/search/docs/data-types/logo --><script type="application/ld+json">{
         "@context": "http://schema.org",
         "@type": "Organization",
         "url": "https://jekicker.github.io",
         "logo": "TODO",
-        "name": "Jekicker",
+        "name": "Gotham Green Partners",
         "sameAs": [
             "https://www.facebook.com/todo-your-facebook-page/",
             "https://twitter.com/todo-your-twitter-page",

diff --git a/assets/application-a5ab3c587a6278552f3c0cad047f681bb534eb545d79a514f85d4c1bbf1155f8-9847055508.css b/assets/application-a5ab3c587a6278552f3c0cad047f681bb534eb545d79a514f85d4c1bbf1155f8-9847055508.css
@@ -1,0 +1,1 @@
+@import url("https://fonts.googleapis.com/css?family=Fira+Mono");body.gotham{font-family:"Fira Mono", monospace, -apple-system, BlinkMacSystemFont, "Segoe UI", "Roboto", "Helvetica Neue", Arial, sans-serif, "Apple Color Emoji", "Segoe UI Emoji", "Segoe UI Symbol" !important;background-color:#070707}.above-the-fold,.hero-brand-icon,.footer,.nav-hero-brand{transform:translate3d(0, 0, 0);-webkit-transform:translate3d(0, 0, 0);backface-visibility:hidden;-webkit-backface-visibility:hidden}.above-the-fold{background-size:cover;height:100vh;background-position:50% 50%;-webkit-transition:all 1s ease;transition:all 1s ease;background-image:url("/assets/images/gotham-nyc-bg.jpg");border:0.1875em solid #fff}.hero-brand-icon{-webkit-transition:all 1s ease;transition:all 1s ease;opacity:.17;position:absolute;bottom:12%;left:-1.75em;width:75%;height:auto}@media (min-width: 768px){.hero-brand-icon{width:55%}}@media (min-width: 992px){.hero-brand-icon{width:45%}}.footer{z-index:1;background:#070707;color:#fff}.footer a{color:#fff}.footer a:hover,.footer a:focus{color:#4D8826}.contact-container{border-top:0.1875em solid #fff;border-bottom:0.1875em solid #fff}.separator-label{width:0.1875em;background:#fff;margin-left:6em;margin-right:6em}.label-title{text-transform:uppercase;margin-bottom:0}.nav-hero-brand{-webkit-transition:all 1s ease;transition:all 1s ease}
